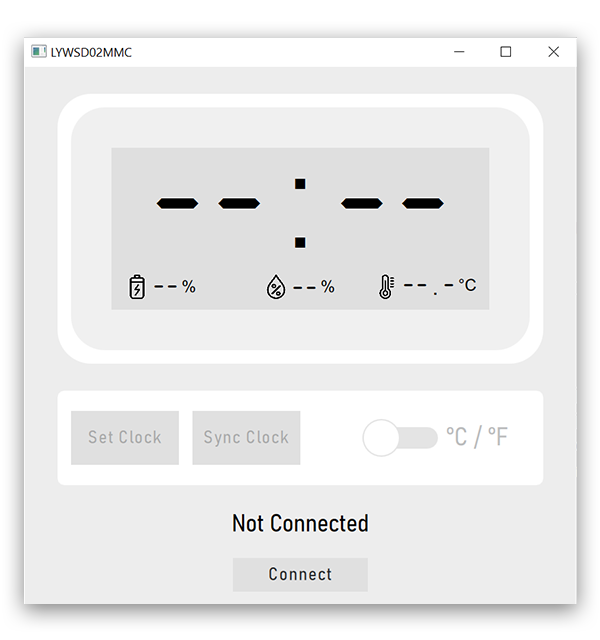
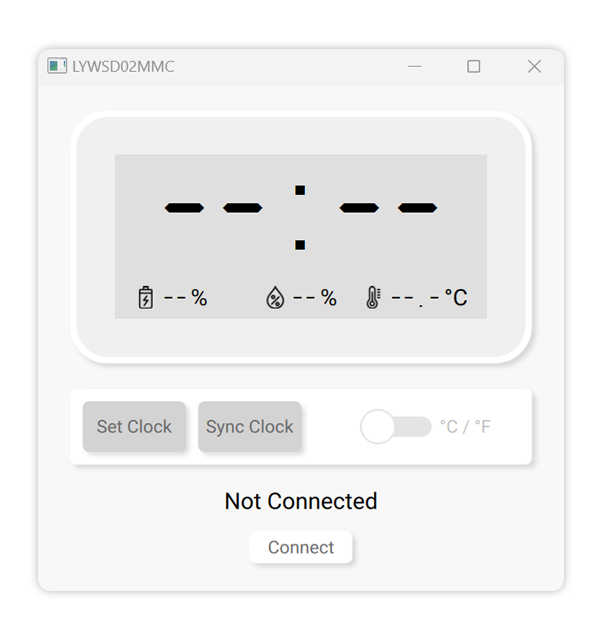
Qt6 version

diff --git a/QML/LYWSD02MMC.qml b/QML/LYWSD02MMC.qml
@@ -10,13 +10,13 @@ Item {
         width: 360
         height: 200
         color: "#ffffff"
-        radius: 25
+        radius: 29
         visible: false
 
         Rectangle {
             id: display_Border
-            width: 340
-            height: 180
+            width: 350
+            height: 190
             color: "#f0f0f0"
             radius: 25
             anchors.verticalCenter: parent.verticalCenter
@@ -24,8 +24,8 @@ Item {
 
             Rectangle {
                 id: display
-                width: 280
-                height: 120
+                width: 290
+                height: 130
                 color: "#dfdfdf"
                 anchors.verticalCenter: parent.verticalCenter
                 anchors.horizontalCenter: parent.horizontalCenter
@@ -174,11 +174,11 @@ Item {
 
     DropShadow {
         anchors.fill: clock_Case
-        horizontalOffset: 0
-        verticalOffset: 0
-        radius: 12.0
+        horizontalOffset: 3
+        verticalOffset: 3
+        radius: 6.0
         samples: 14
-        color: "#60000000"
+        color: "#20000000"
         source: clock_Case
     }
 

diff --git a/QML/Devices_List.qml b/QML/Devices_List.qml
@@ -112,7 +112,7 @@ Item {
                                     text: deviceInfo_Name
                                     font.pixelSize: 14
                                     font.family: FontsManager.regular_Font.name
-                                    elide: Text.ElideRight
+                                    elide: Text.ElideMiddle
                                     color: "gray"
                                     anchors.left: name_Label.right
                                     anchors.right: parent.right
@@ -127,7 +127,7 @@ Item {
                                     text: deviceInfo_Mac
                                     font.pixelSize: 14
                                     font.family: FontsManager.regular_Font.name
-                                    elide: Text.ElideRight
+                                    elide: Text.ElideMiddle
                                     color: "gray"
                                     anchors.left: mac_Label.right
                                     anchors.right: parent.right

diff --git a/QML/Clock_Control.qml b/QML/Clock_Control.qml
@@ -20,11 +20,11 @@ Item {
 
     DropShadow {
         anchors.fill: control_Background
-        horizontalOffset: 0
-        verticalOffset: 0
-        radius: 8.0
+        horizontalOffset: 3
+        verticalOffset: 3
+        radius: 6.0
         samples: 14
-        color: "#40000000"
+        color: "#20000000"
         source: control_Background
     }
 

diff --git a/QML/Components/Regular_Button.qml b/QML/Components/Regular_Button.qml
@@ -59,11 +59,11 @@ Item {
 
     DropShadow {
         anchors.fill: button
-        horizontalOffset: 0
-        verticalOffset: 0
-        radius: 8.0
+        horizontalOffset: 3
+        verticalOffset: 3
+        radius: 6.0
         samples: 14
-        color: "#40000000"
+        color: "#20000000"
         source: button
     }
 }

diff --git a/main.qml b/main.qml
@@ -14,7 +14,7 @@ ApplicationWindow {
 
     Rectangle {
         id: background
-        color: "#ffffff"
+        color: "#f8f8f8"
         anchors.fill: parent
         focus: true
         anchors.rightMargin: 0

diff --git a/src/bluetooth_bridge.cpp b/src/bluetooth_bridge.cpp
@@ -49,7 +49,7 @@ void bluetooth_Bridge::scan_Devices() {
     _device_Discovery_Agent->setLowEnergyDiscoveryTimeout(30000);
 
     connect(_device_Discovery_Agent, &QBluetoothDeviceDiscoveryAgent::deviceDiscovered, this, &bluetooth_Bridge::S_add_Device);
-    //connect(_device_Discovery_Agent, QOverload<QBluetoothDeviceDiscoveryAgent::Error>::of(&QBluetoothDeviceDiscoveryAgent::error), this, &bluetooth_Bridge::S_device_Scan_Error);
+    connect(_device_Discovery_Agent, &QBluetoothDeviceDiscoveryAgent::errorOccurred, this, &bluetooth_Bridge::S_device_Scan_Error);
     connect(_device_Discovery_Agent, &QBluetoothDeviceDiscoveryAgent::finished, this, &bluetooth_Bridge::S_device_Scan_Finished);
     connect(_device_Discovery_Agent, &QBluetoothDeviceDiscoveryAgent::canceled, this, &bluetooth_Bridge::S_device_Scan_Finished);
 
@@ -153,7 +153,7 @@ void bluetooth_Bridge::connect_Device(device_Info *device) {
         connect(_BLE_Controller, SIGNAL(serviceDiscovered(QBluetoothUuid)), this, SLOT(S_service_Discovered(QBluetoothUuid)));
         connect(_BLE_Controller, SIGNAL(discoveryFinished()), this, SLOT(S_service_Scan_Done()), Qt::QueuedConnection);
         connect(_BLE_Controller, SIGNAL(disconnected()), this, SLOT(S_device_Disconnected()));
-        //connect(_BLE_Controller, SIGNAL(error(QLowEnergyController::Error)), this, SLOT(S_BLE_Controller_Error(QLowEnergyController::Error)));
+        connect(_BLE_Controller, SIGNAL(errorOccurred(QLowEnergyController::Error)), this, SLOT(S_BLE_Controller_Error(QLowEnergyController::Error)));
 
         _BLE_Controller->connectToDevice();
     }
@@ -220,7 +220,7 @@ void bluetooth_Bridge::S_service_Scan_Done() {
         connect(_BLE_Service, SIGNAL(characteristicChanged(QLowEnergyCharacteristic,QByteArray)), this, SLOT(S_service_Characteristic_Changed(QLowEnergyCharacteristic,QByteArray)));
         connect(_BLE_Service, SIGNAL(characteristicRead(QLowEnergyCharacteristic,QByteArray)), this, SLOT(S_service_Characteristic_Read(QLowEnergyCharacteristic,QByteArray)));
         connect(_BLE_Service, SIGNAL(characteristicWritten(QLowEnergyCharacteristic,QByteArray)), this, SLOT(S_service_Characteristic_Written(QLowEnergyCharacteristic,QByteArray)));
-        //connect(_BLE_Service, SIGNAL(error(QLowEnergyService::ServiceError)), this, SLOT(S_service_Error(QLowEnergyService::ServiceError)));
+        connect(_BLE_Service, SIGNAL(errorOccurred(QLowEnergyService::ServiceError)), this, SLOT(S_service_Error(QLowEnergyService::ServiceError)));
 
         if (_BLE_Service->state() == QLowEnergyService::RemoteService) {
             emit connecting_Status_Changed("Discovering Service Details...");
@@ -363,8 +363,13 @@ void bluetooth_Bridge::S_service_Characteristic_Written(const QLowEnergyCharacte
 
 
 void bluetooth_Bridge::S_BLE_Controller_Error(QLowEnergyController::Error error) {
-    Q_UNUSED(error);
-    ble_Critical_Error("BLE Controller Error.");
+    if (error == QLowEnergyController::RemoteHostClosedError) {
+        ble_Critical_Error("LYWSD02 closed the connection.");
+    }
+    else {
+        ble_Critical_Error("Unexpected BLE Controller Error.");
+    }
+
     _update_Timer->stop();
 }
 
